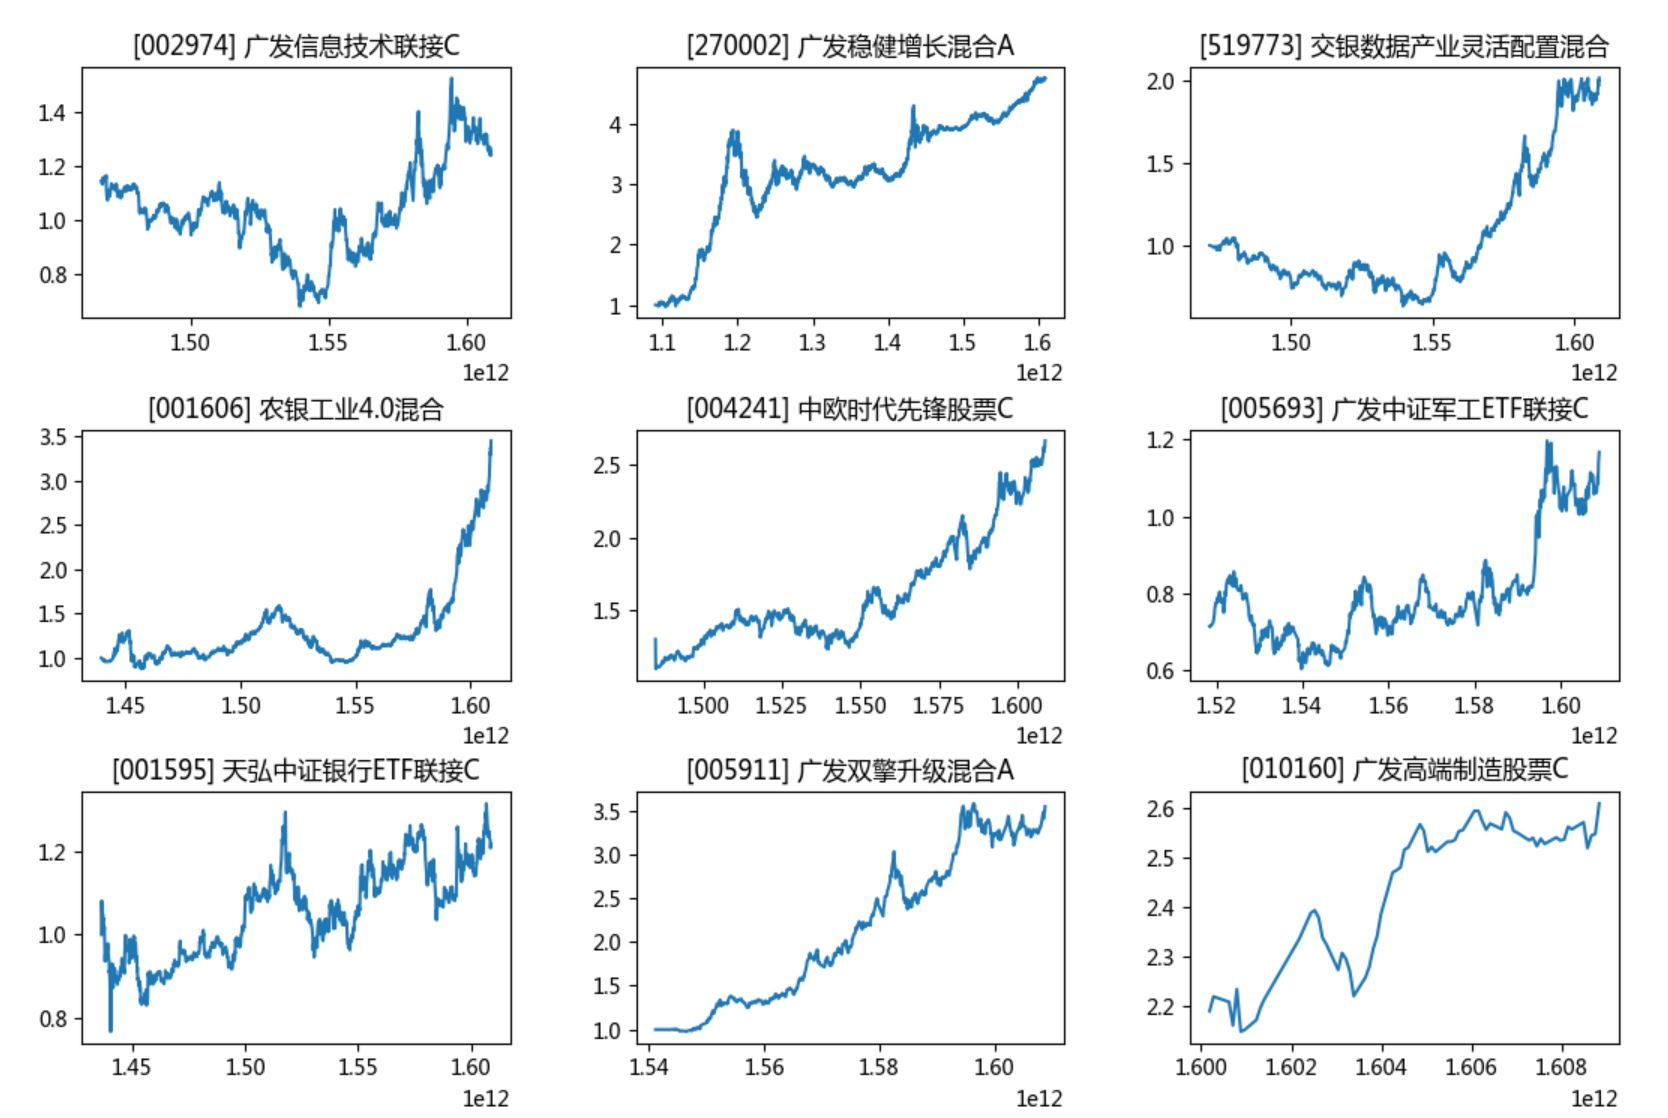
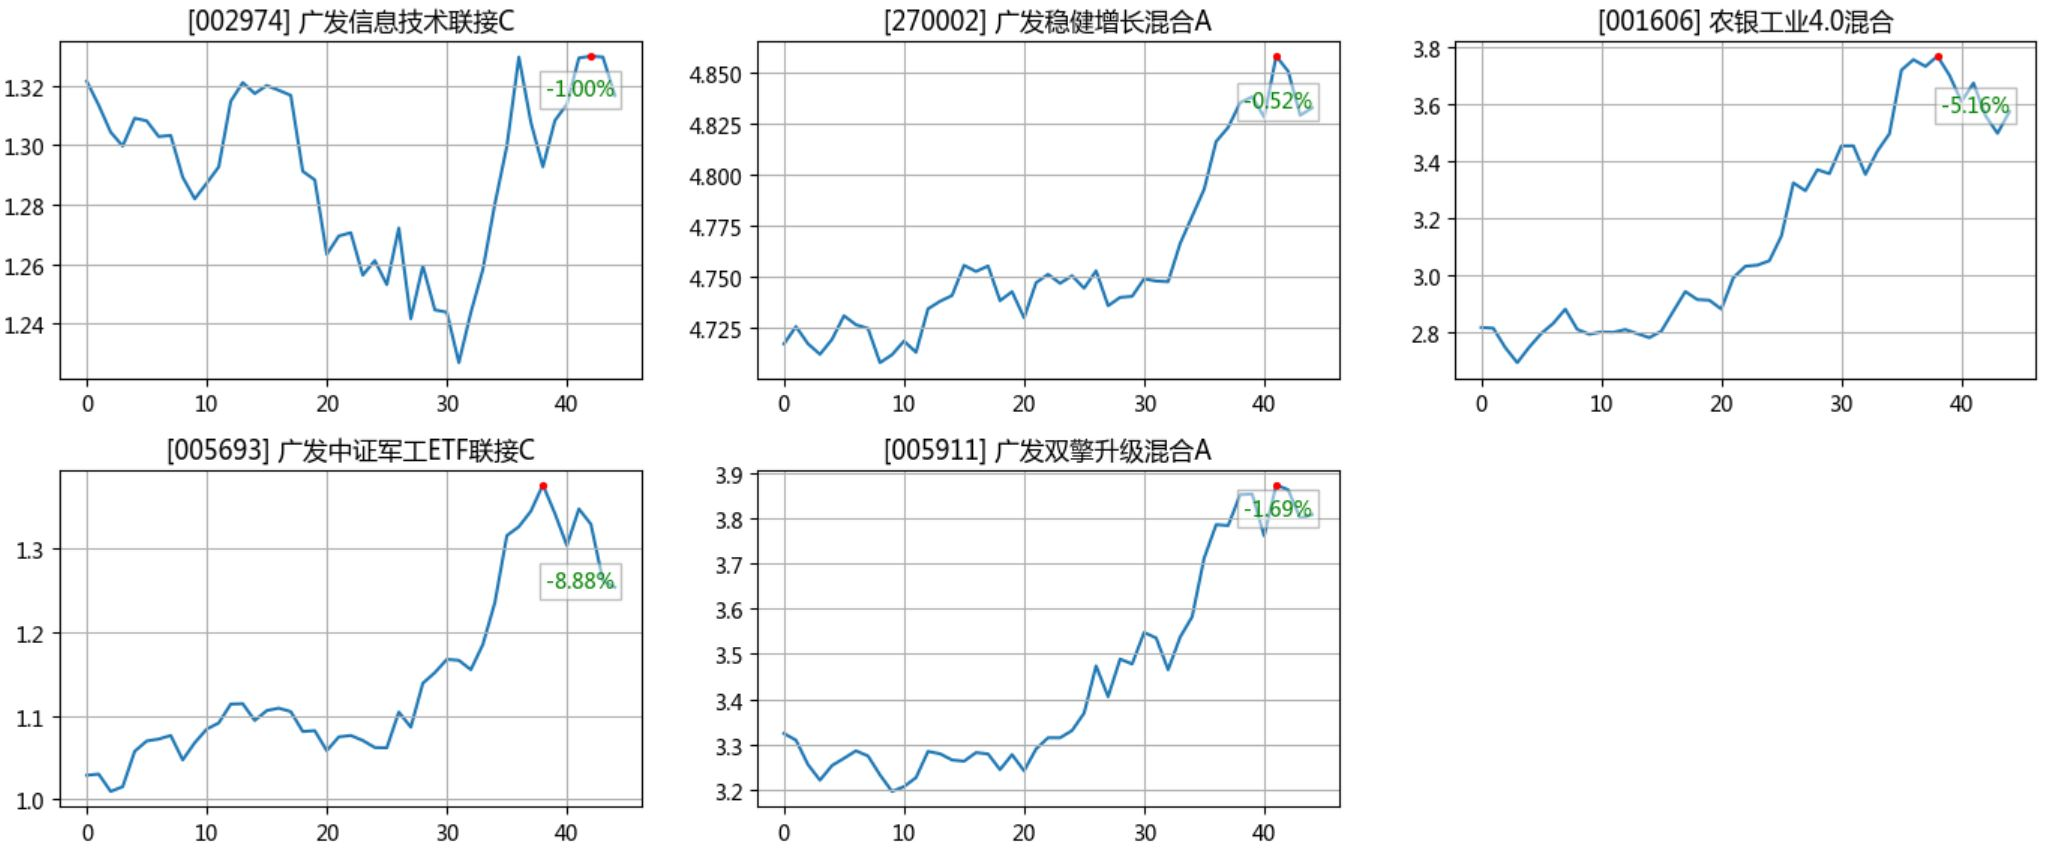
Completed k-wall

diff --git a/k-wall.py b/k-wall.py
@@ -16,6 +16,11 @@ class HistoryCurve:
 		self.daysAgo = daysAgo
 
 
+	def __getDataFromEM1234567(self, code):
+		em = EM1234567(code)
+		return np.array(em.getHistoryPlotJson())
+
+
 	def update(self):
 
 		n_fund = len(self.codes)
@@ -24,22 +29,42 @@ class HistoryCurve:
 		for i in range(n_fund):
 			print('[%s] %s' % (self.codes[i], self.names[i]))
 
-			em = EM1234567(self.codes[i])
-			xy_points = np.array(em.getHistoryPlot())
+			xy_points = self.__getDataFromEM1234567(self.codes[i])
 			x_time = None
 			y_value = None
 
-			if self.daysAgo >= xy_points.shape[0]:
+			## Extract curve data from array
+			if self.daysAgo < xy_points.shape[0]:
+				x_time = np.array(list(range(0, self.daysAgo)))
+				y_value = xy_points[-self.daysAgo:, 1]
+			else:
+				## The set backtracking days is too big
 				x_time = np.array(list(range(0, xy_points.shape[0])))
 				y_value = xy_points[:, 1]
 
-			else:
-				x_time = np.array(list(range(0, self.daysAgo)))
-				y_value = xy_points[-self.daysAgo:, 1]
+			## Get peak and value now
+			y_max = np.max(y_value)
+			y_now = y_value[-1]
+			idx_peak = np.where(y_value==y_max)
+			rate = (y_now - y_max) / y_max * 100
 
 			plt.subplot(n_nxn, n_nxn, i+1)
+			plt.grid()
 			plt.title('[%s] %s' % (self.codes[i], self.names[i]))
-			plt.plot(x_time, y_value)
+			plt.plot(x_time, y_value, zorder=1)
+			plt.scatter(x_time[idx_peak], y_value[idx_peak], s=7.5, c='red', zorder=2)
+			t_color = 'red'
+			if rate < 0:
+				t_color = 'green'
+			plt.text(x_time[-1], y_value[-1], '%.2f%%' % rate,
+				ha='right',
+				c=t_color,
+				zorder=3,
+				bbox=dict(boxstyle="square",
+					ec='grey',
+					fc='white',
+					alpha=.5
+				))
 
 		plt.show()
 

diff --git a/em1234567.py b/em1234567.py
@@ -11,6 +11,10 @@ class EM1234567:
 	def __jsonLoad(self, sJson):
 		return json.loads(re.match(".*?({.*}).*", sJson, re.S).group(1))
 
+	def __getHistoryText(self):
+		r = requests.get('https://fund.eastmoney.com/pingzhongdata/%s.js?v=20160518155842' % self.fund_code)
+		return r.text
+
 	def getRealtimeInfo(self):
 		r = requests.get('https://fundgz.1234567.com.cn/js/%s.js?rt=1463558676006' % self.fund_code)
 		return self.__jsonLoad(r.text)
@@ -29,16 +33,15 @@ class EM1234567:
 			if _ == None:
 				return -100
 			return float(_.group().split('"')[1])
-		r = requests.get('https://fund.eastmoney.com/pingzhongdata/%s.js?v=20160518155842' % self.fund_code)
-		rate_1y = _rateGen('syl_1n="(\S+)"', r.text)
-		rate_6m = _rateGen('syl_6y="(\S+)"', r.text)
-		rate_3m = _rateGen('syl_3y="(\S+)"', r.text)
-		rate_1m = _rateGen('syl_1y="(\S+)"', r.text)
+		r_text = self.__getHistoryText()
+		rate_1y = _rateGen('syl_1n="(\S+)"', r_text)
+		rate_6m = _rateGen('syl_6y="(\S+)"', r_text)
+		rate_3m = _rateGen('syl_3y="(\S+)"', r_text)
+		rate_1m = _rateGen('syl_1y="(\S+)"', r_text)
 		return {'1m': rate_1m, '3m': rate_3m, '6m': rate_6m, '1y': rate_1y}
 
-	def getHistoryPlot(self):
-		r = requests.get('https://fund.eastmoney.com/pingzhongdata/%s.js?v=20160518155842' % self.fund_code)
-		t_points = re.search('Data_ACWorthTrend = \[\[.+?\]\];', r.text).group()
+	def getHistoryPlotJson(self):
+		t_points = re.search('Data_ACWorthTrend = \[\[.+?\]\];', self.__getHistoryText()).group()
 		t_points = t_points.split(' = ')[1][:-1]
 		return json.loads(t_points)
 

diff --git a/README.md b/README.md
@@ -2,8 +2,6 @@
 
 Make money, quickly quickly. Utilization of 1234567 fund APIs.
 
-![Monitor](./monitor.JPG)
-
 ## Usage
 
  - Input fund code into a XLSX file and make a list with name and benefit rate in recent years (optional):
@@ -14,6 +12,13 @@ Make money, quickly quickly. Utilization of 1234567 fund APIs.
 
  `monitor <fund_list.xlsx> <delay> [threadNum]`
 
+ ![Monitor](./monitor.JPG)
+
+ - Show a curve wall:
+
+ `python3 k-wall.py <fund_list.xlsx> [backtracking_days]`
+
+ ![K-wall](./k-wall.JPG)
 
 ## For those who want to build a executable
 
